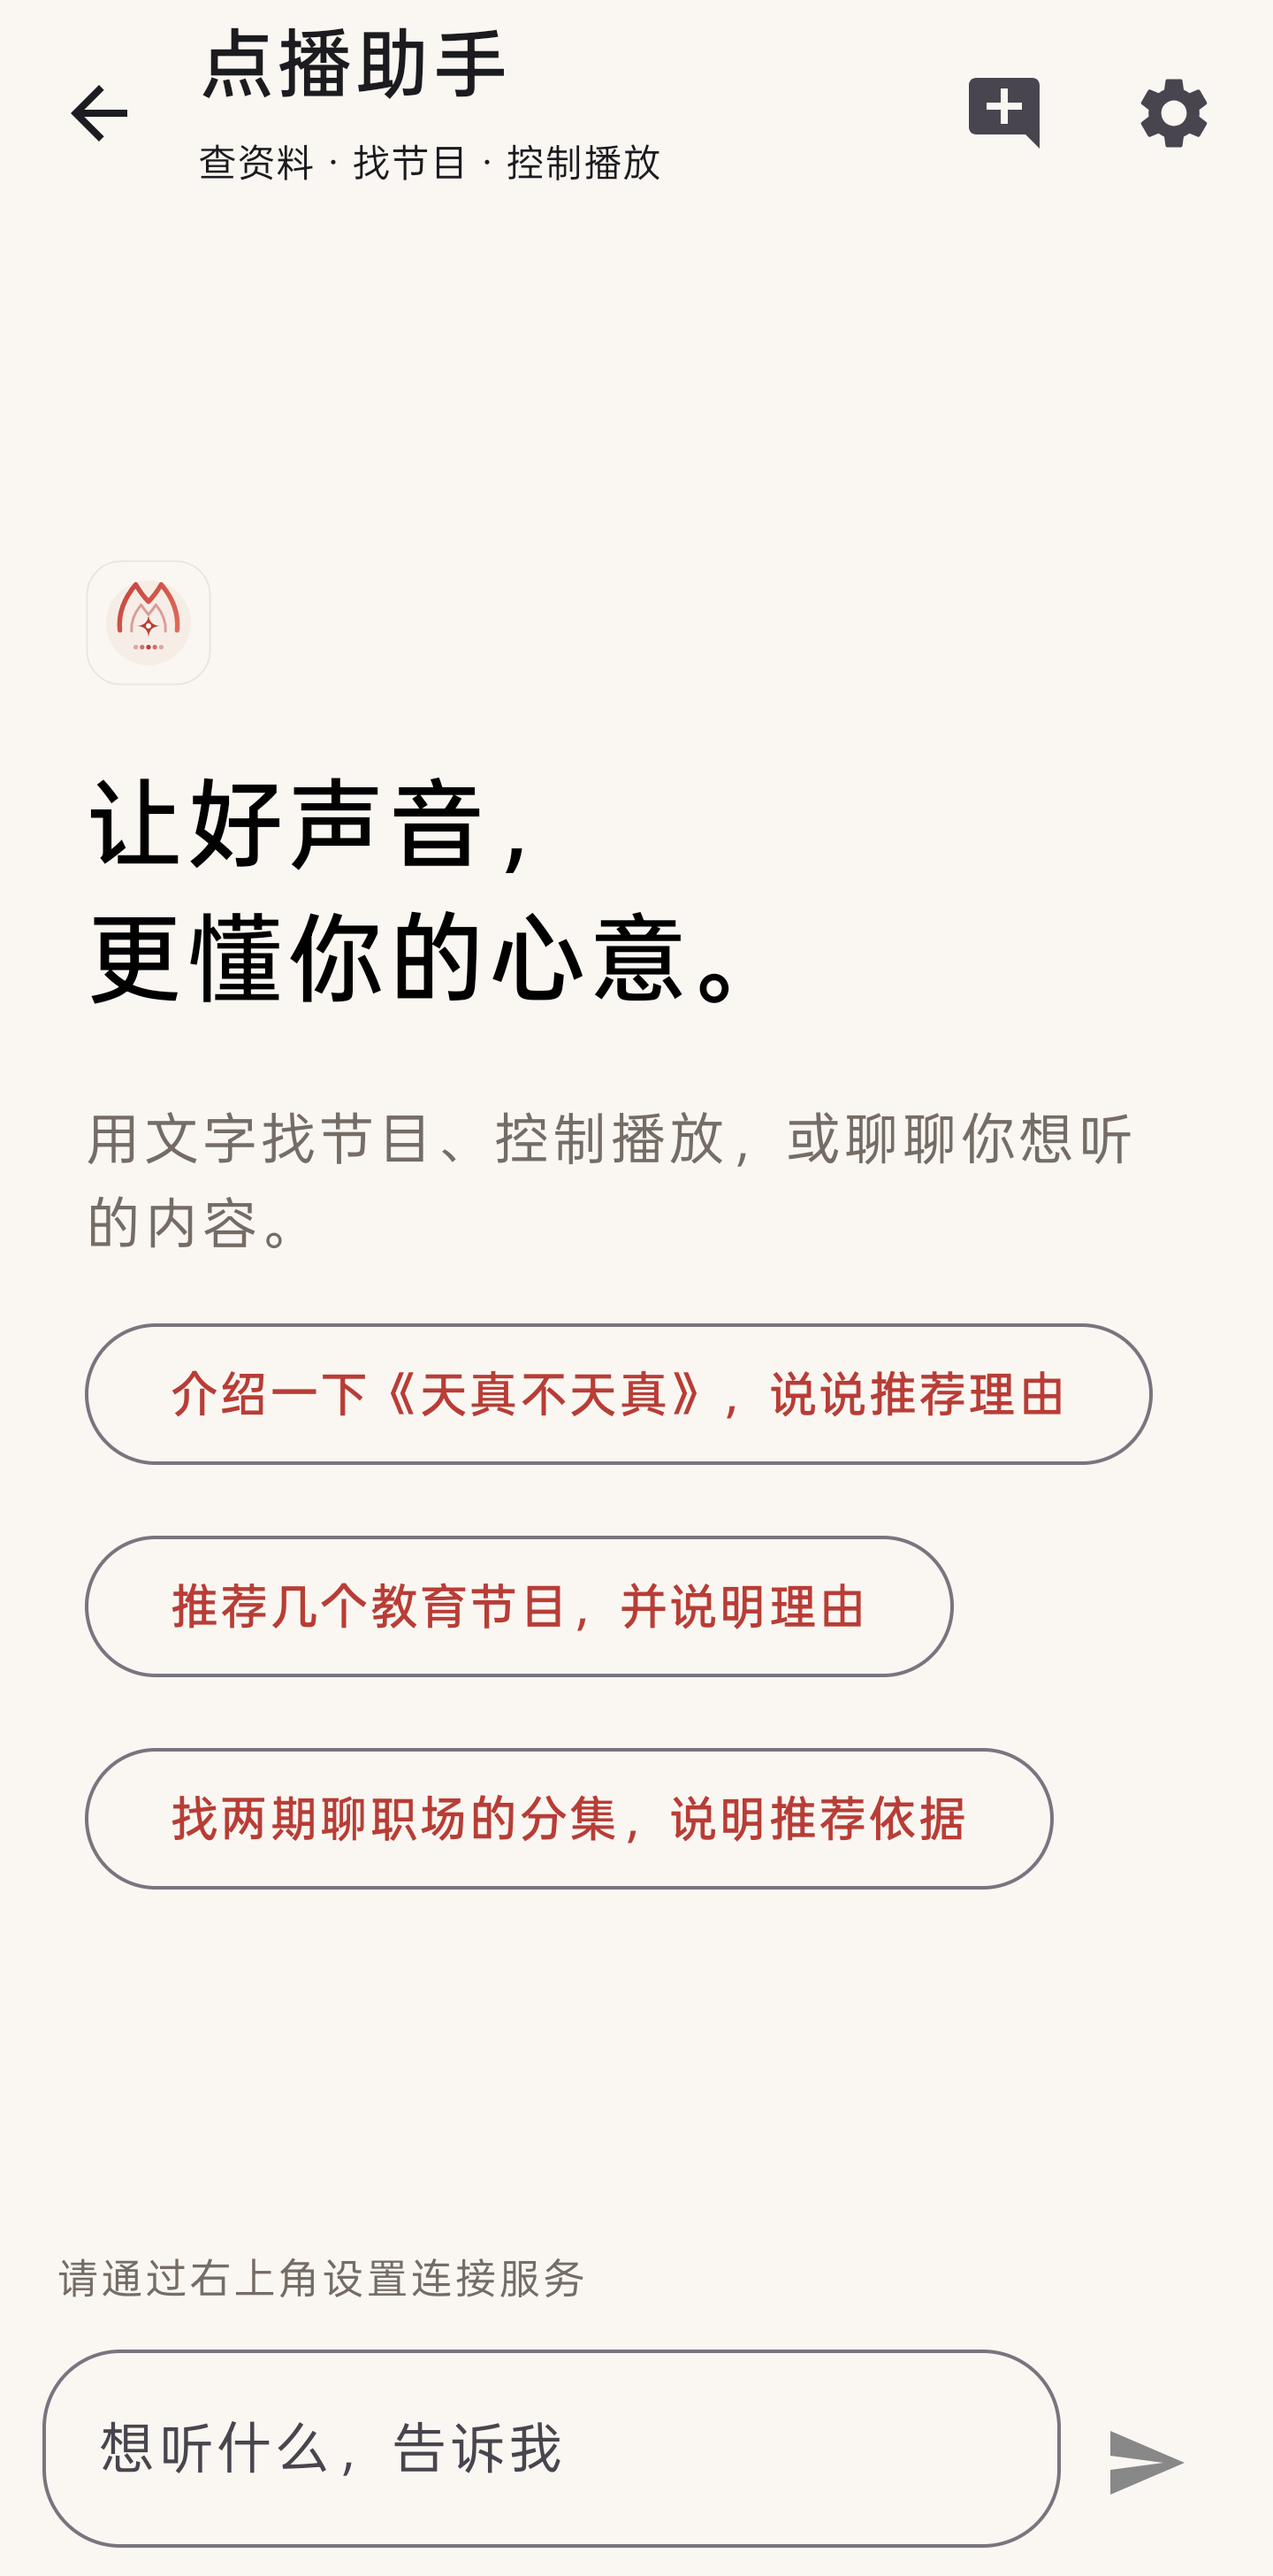
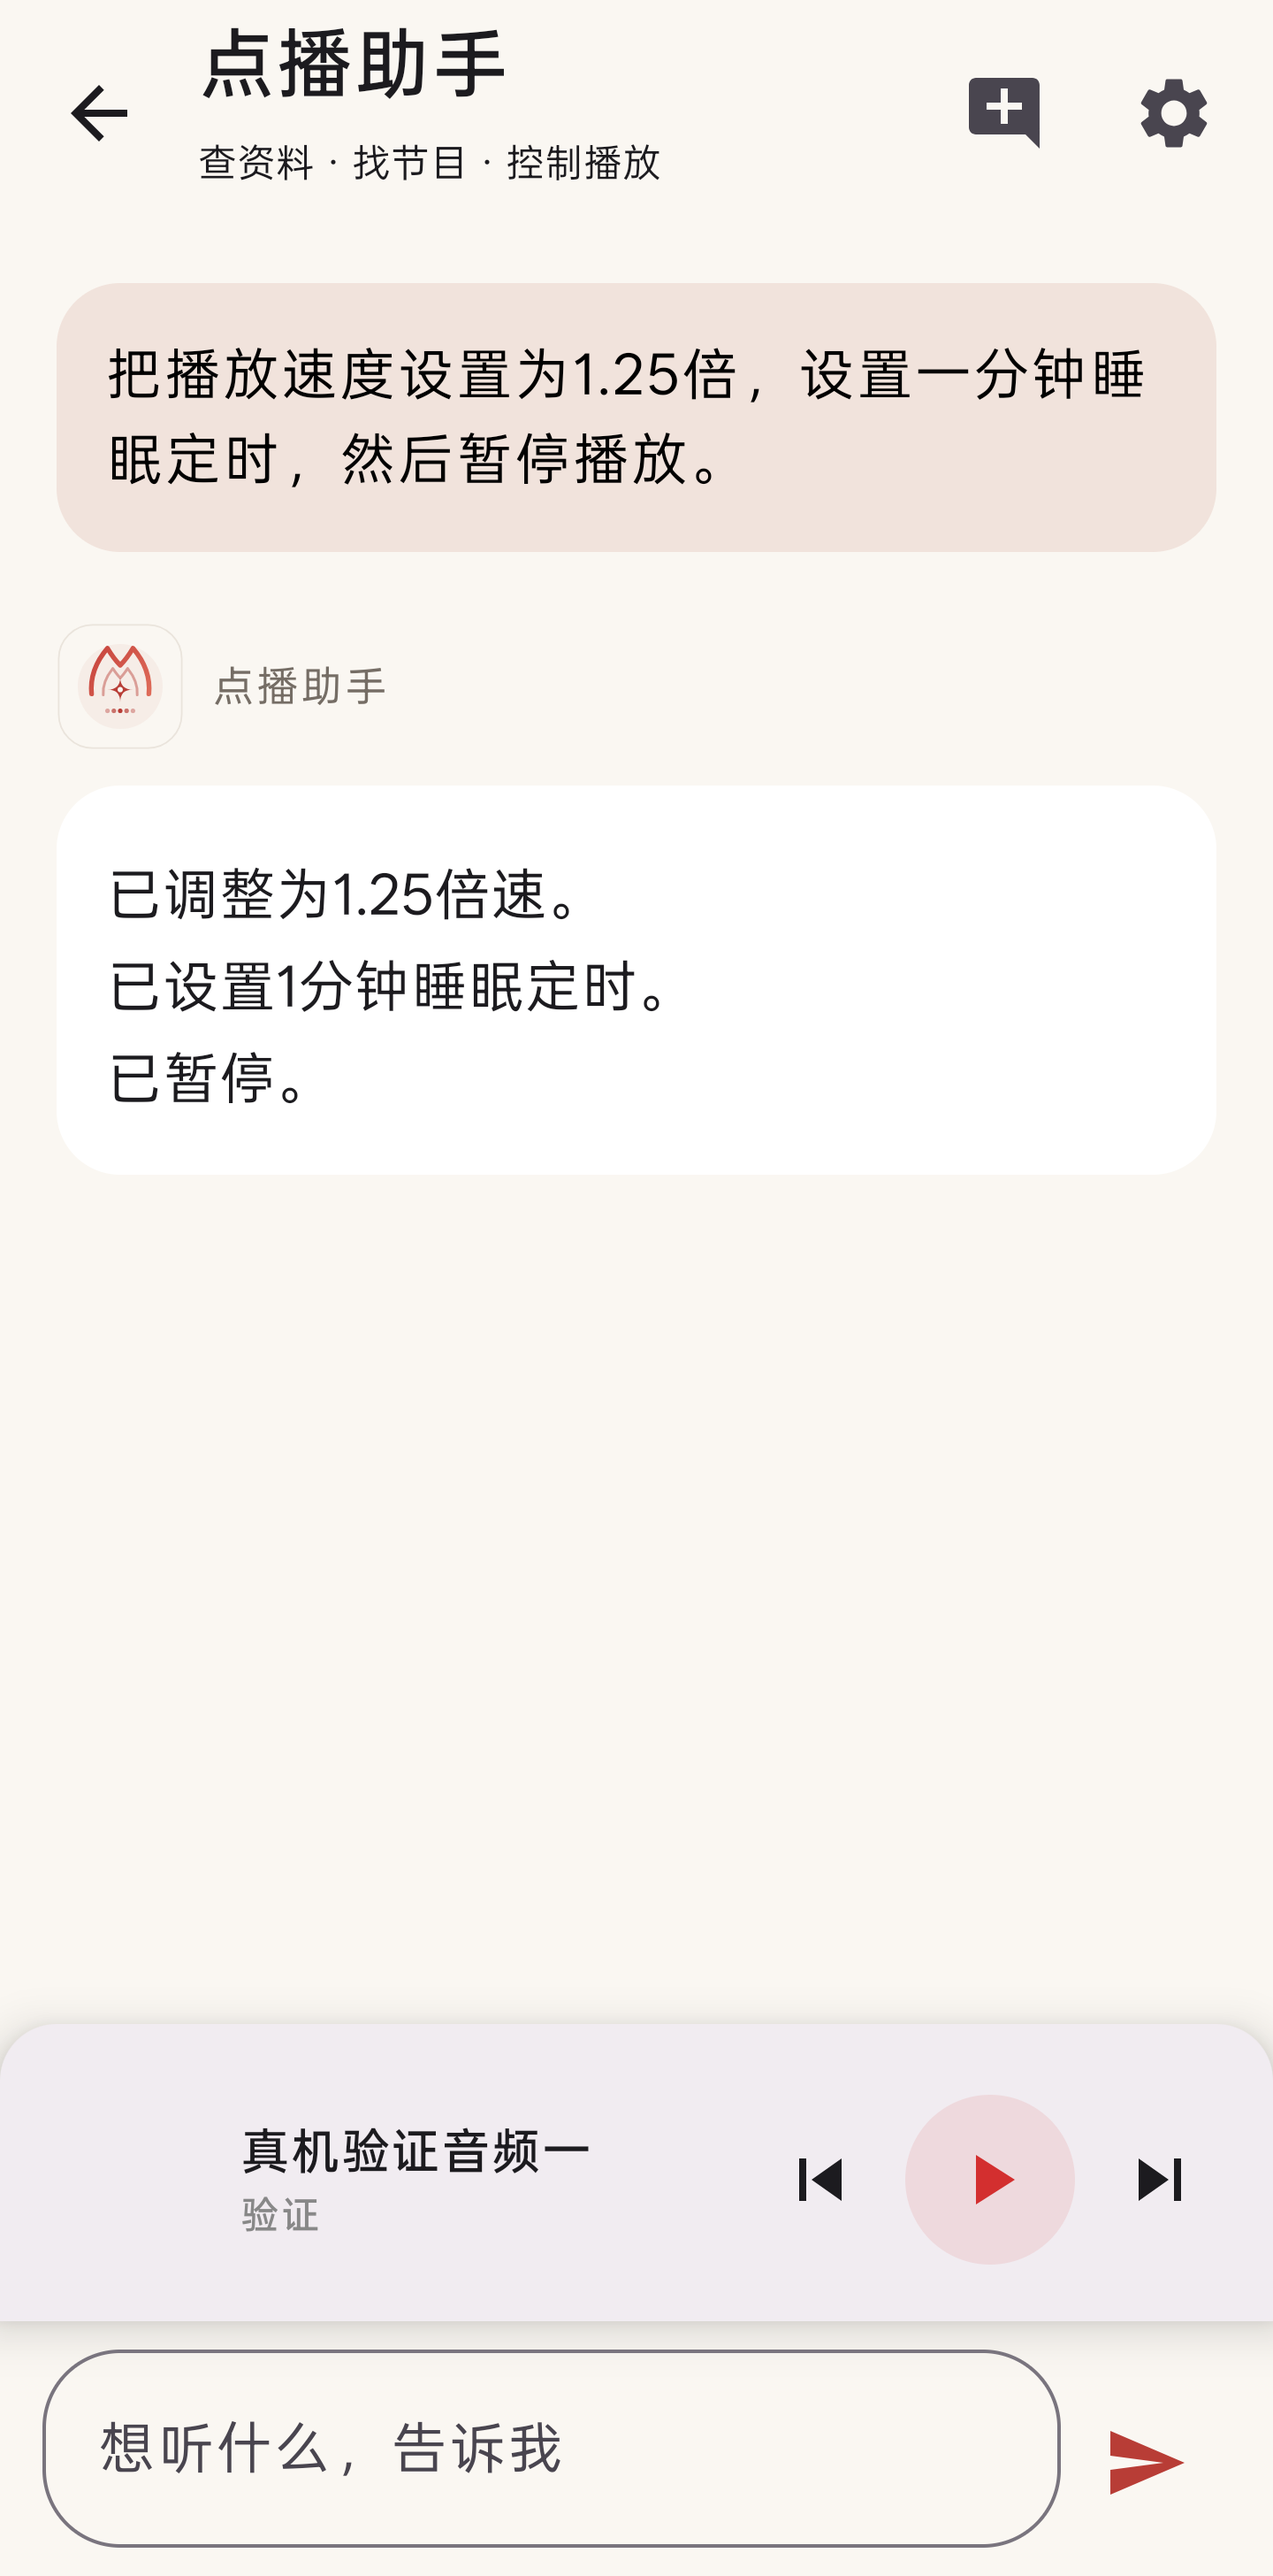
按已解析控制目标推进执行并更新真机示例
将参数完整且依赖就绪的控制目标送入既有领取、检查点和回执链。
稳定调用ID及目标来源随任务持久化，保留选集和相对参数查询路径。
同步当前控制流程说明与无状态栏真机复合控制示例图。

diff --git a/agent-server/maoer_agent/agent/graph.py b/agent-server/maoer_agent/agent/graph.py
@@ -2,6 +2,7 @@
 from maoer_agent.contracts.intent import web_delivery, web_source_links
 import asyncio
 import json
+import hashlib
 import time
 from datetime import datetime,timezone,timedelta
 from dataclasses import replace
@@ -406,7 +407,16 @@ class AgentGraph:
         plan=task_goals.goals(state.get('route',{}))
         quote_selected=(state.get('route',{}).get('page_lookup',{}).get('target_kind')=='evidence_quote'
                         and not view['next_step'] and bool(self.answer_input(state,[],True).sources))
-        if (direct and direct['kind']=='control_receipts' and direct.get('receipts')
+        planned=task_goals.planned_control(state.get('route',{}),progress,names) if not final_only else None
+        if planned:
+            identity='plan_'+hashlib.sha256((run_id+':'+planned['goal_id']).encode()).hexdigest()[:32]
+            message={'role':'assistant','content':None,'tool_calls':[{'id':identity,'type':'function',
+                'function':{'name':planned['name'],'arguments':json.dumps(planned['arguments'],ensure_ascii=False)}}]}
+            messages=state['messages']
+            dispatches=dict(self.get_run(run_id).get('plan_dispatches',{}))
+            dispatches[identity]=planned['goal_id']
+            self.store.update(run_id,plan_dispatches=dispatches)
+        elif (direct and direct['kind']=='control_receipts' and direct.get('receipts')
                 and not view['next_step']):
             message={'role':'assistant','content':self.query_renderer(direct)}
             messages=state['messages']

diff --git a/agent-server/maoer_agent/workflows/goals.py b/agent-server/maoer_agent/workflows/goals.py
@@ -144,6 +144,24 @@ def matches_call(goal,call):
         call['arguments'].get(key)==value for key,value in goal.get('arguments',{}).items()))
 
 
+def planned_control(route,progress,names):
+    """Dispatch a fully specified, ready intent once through the normal ledger.
+
+    Episode selection still needs the model and the identity/confirmation path.
+    Relative settings with missing parameters still need a state observation.
+    """
+    for goal in goals(route):
+        p=progress.get(goal['id'],{})
+        name=goal.get('action','')
+        if (goal['kind']!='control' or name=='play_episode' or name not in names
+                or p.get('status','pending')!='pending' or p.get('call_ids') or not ready(goal,progress)):
+            continue
+        if parameter_state(goal)=='supported':
+            return {'goal_id':goal['id'],'name':name,
+                    'arguments':TOOLS[name].input_model.model_validate(goal.get('arguments',{})).model_dump()}
+    return None
+
+
 def evidence_matches(goal,name,route):
     if goal['kind']=='general':
         scopes={scope for flag,scope in (('web','web'),('podcast','podcast'),('library','library')) if route.get(flag)}
